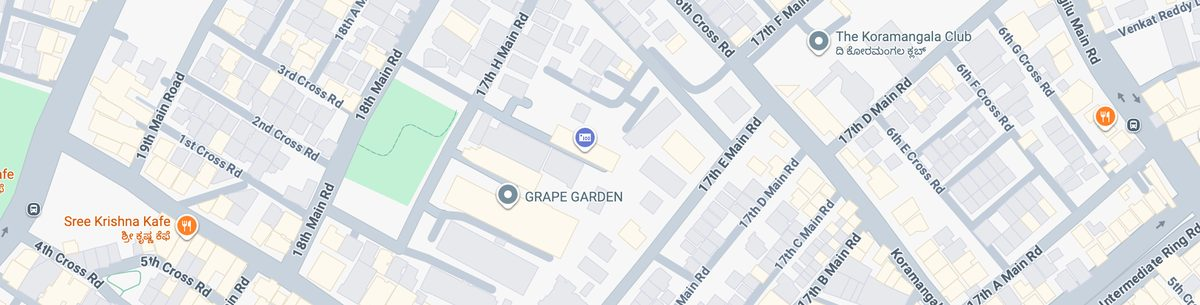
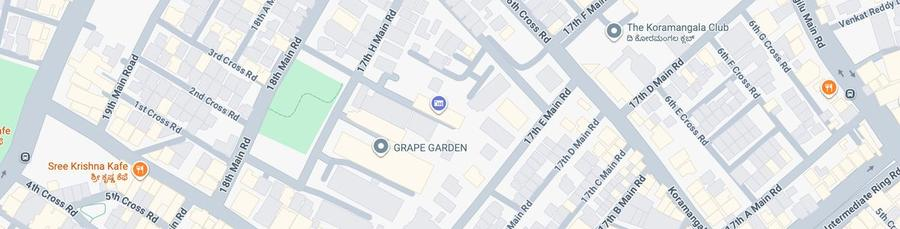
feat(web): add custom 404, rename Free nav to Compare, trim font preload and map image

diff --git a/apps/web/src/app/not-found.tsx b/apps/web/src/app/not-found.tsx
@@ -1,0 +1,39 @@
+import type { Metadata } from 'next';
+import { Button } from '@/components/ui';
+
+export const metadata: Metadata = {
+  title: { absolute: 'Page not found | Raqm' },
+  robots: { index: false, follow: false },
+};
+
+const LINKS = [
+  { label: 'Features', href: '/features' },
+  { label: 'Blog', href: '/blog' },
+  { label: 'FAQ', href: '/faq' },
+  { label: 'Compare', href: '/free' },
+];
+
+export default function NotFound() {
+  return (
+    <main id="main-content" className="mx-auto flex max-w-col flex-col items-center px-6 pb-section-lg pt-40 text-center md:pt-44">
+      <span aria-hidden="true" className="grid size-14 place-items-center rounded-cell bg-brand font-mono text-2xl leading-none text-brand-ink">
+        R
+      </span>
+      <p className="mt-6 font-mono text-sm text-ink-subtle">404</p>
+      <h1 className="mt-3 text-h1 text-balance">That page is not here</h1>
+      <p className="mx-auto mt-4 max-w-xl text-lead text-ink-muted">The link may be old or mistyped. Head back home or try one of these.</p>
+      <Button href="/" size="lg" className="mt-8">
+        Back to home
+      </Button>
+      <ul className="mt-6 flex flex-wrap justify-center gap-2">
+        {LINKS.map((link) => (
+          <li key={link.href}>
+            <Button href={link.href} variant="secondary" size="sm">
+              {link.label}
+            </Button>
+          </li>
+        ))}
+      </ul>
+    </main>
+  );
+}

diff --git a/apps/web/src/components/Footer.tsx b/apps/web/src/components/Footer.tsx
@@ -7,7 +7,7 @@ const COLUMNS = [
     links: [
       { label: 'Features', href: '/features' },
       { label: 'How it works', href: '/#how-it-works' },
-      { label: 'Free to use', href: '/free' },
+      { label: 'Compare', href: '/free' },
       { label: 'Download', href: '/download' },
       { label: 'Join waitlist', href: '/#waitlist' },
     ],

diff --git a/apps/web/src/components/SiteHeader.tsx b/apps/web/src/components/SiteHeader.tsx
@@ -12,7 +12,7 @@ import { cx } from './ui/cx';
 const LINKS = [
   { label: 'Home', href: '/' },
   { label: 'Features', href: '/features' },
-  { label: 'Free', href: '/free' },
+  { label: 'Compare', href: '/free' },
   { label: 'Blog', href: '/blog' },
   { label: 'FAQ', href: '/faq' },
 ] as const;

diff --git a/apps/web/src/app/fonts.ts b/apps/web/src/app/fonts.ts
@@ -11,4 +11,5 @@ export const jetbrainsMono = JetBrains_Mono({
   weight: ['400', '500', '600'],
   variable: '--font-jetbrains-mono',
   display: 'swap',
+  preload: false,
 });
